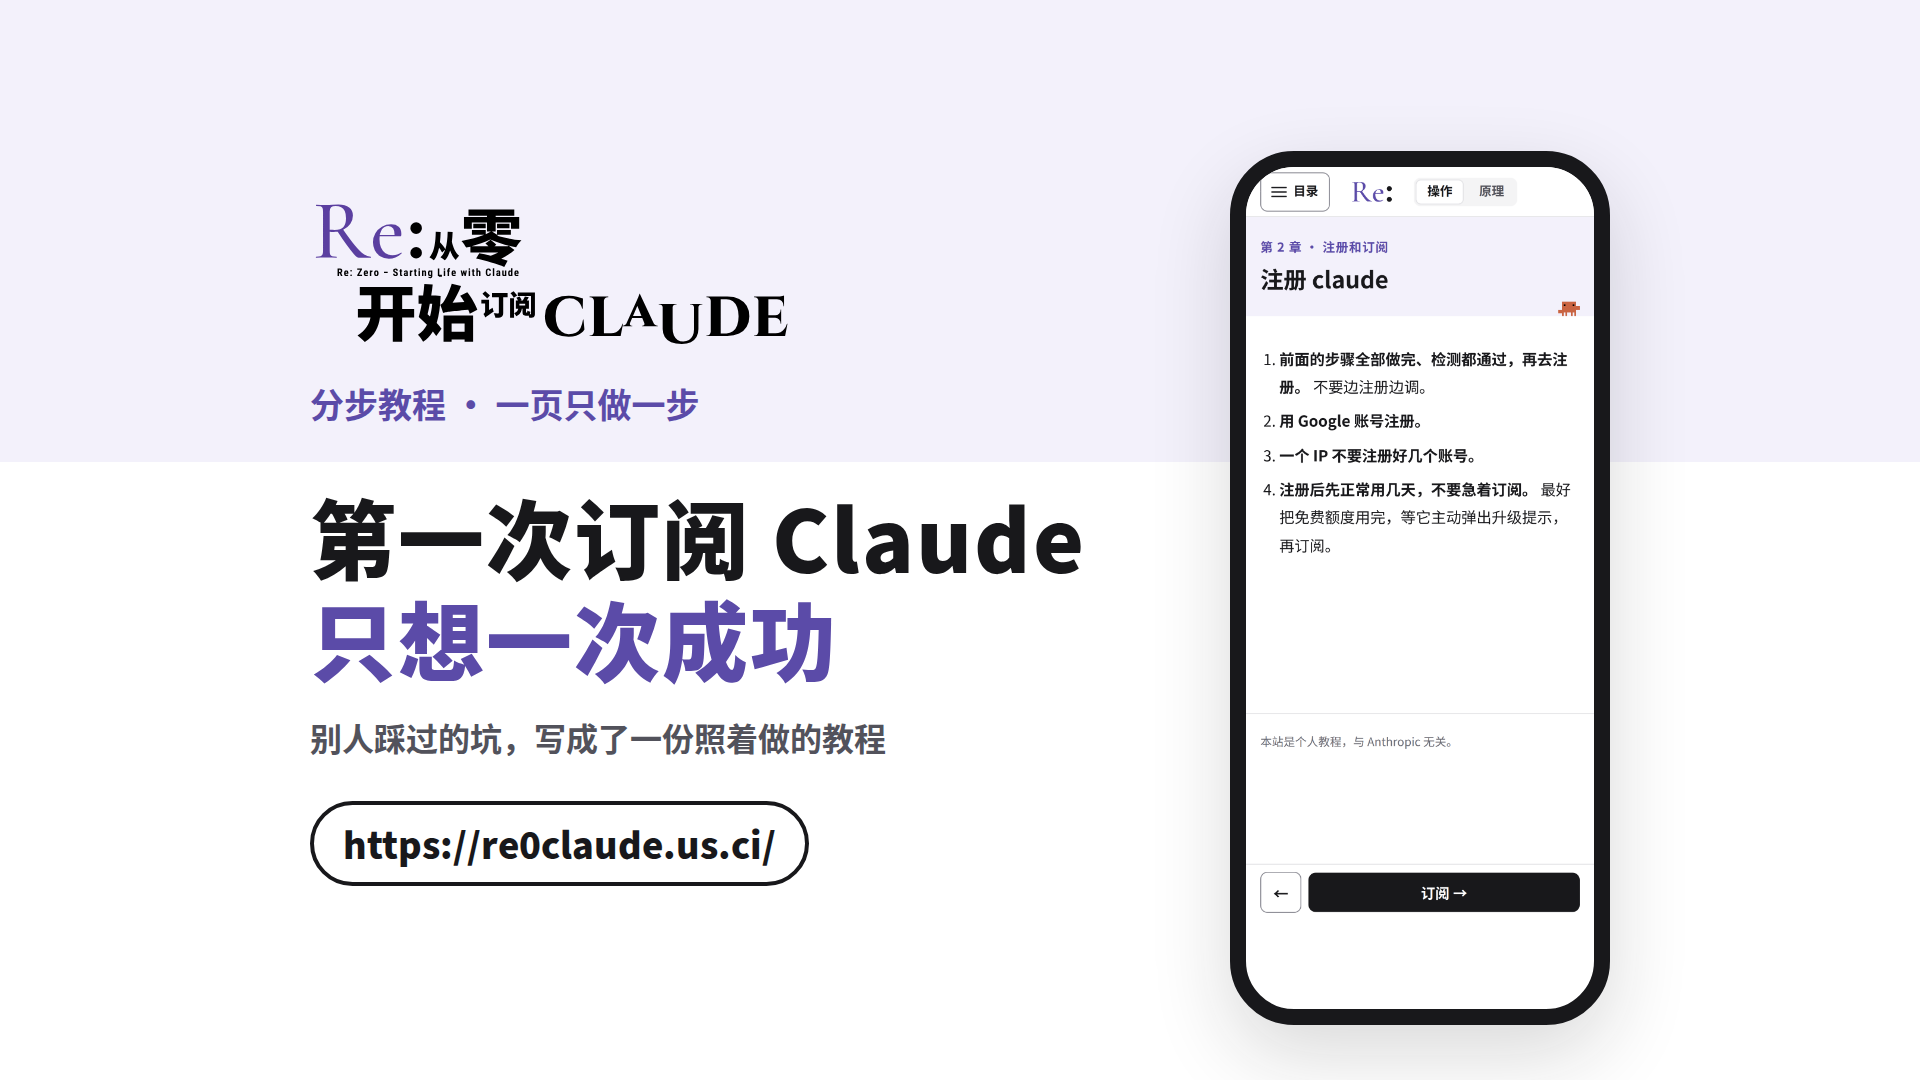
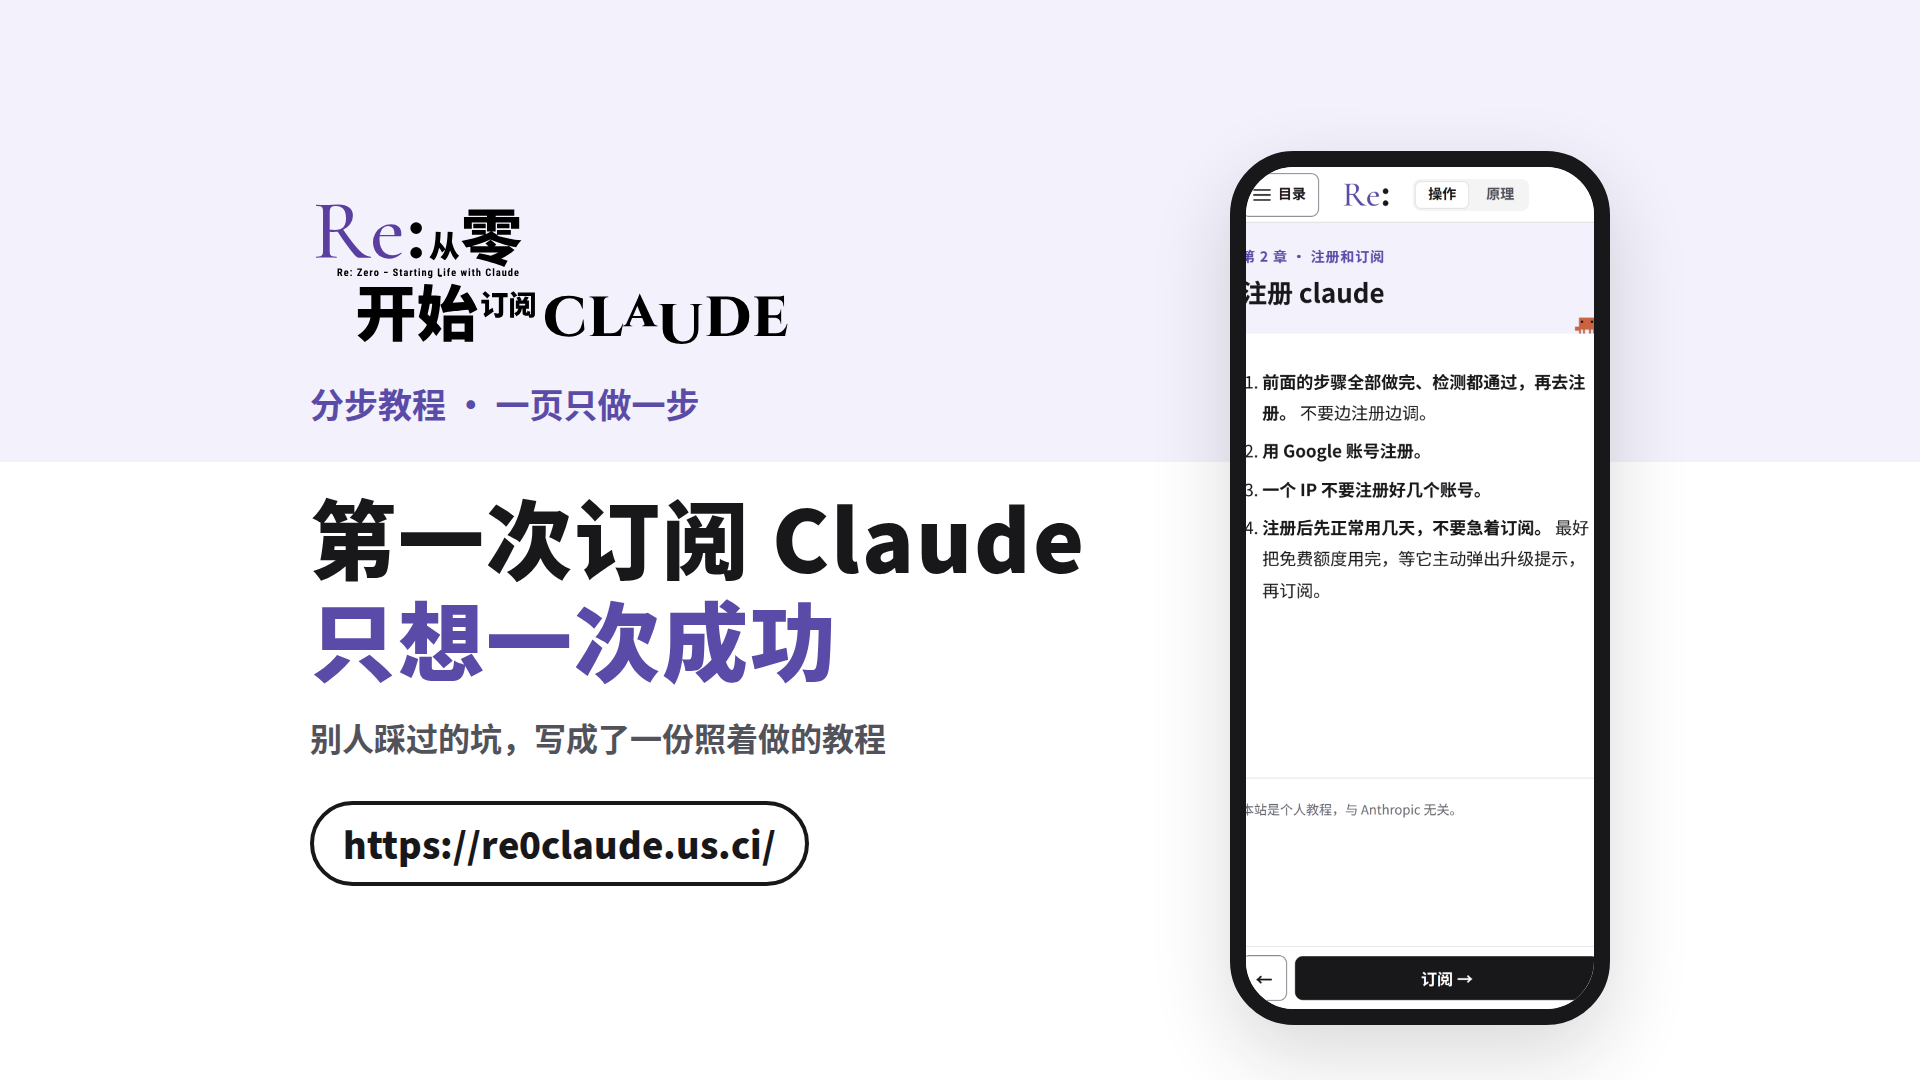
新增 B 站经历版封面，不带网址

diff --git a/promo/cover/cover.html b/promo/cover/cover.html
@@ -17,7 +17,7 @@
   .logo, .eyebrow, .title, .sub, .url { position: relative; }
   /* 横版右侧：网站的手机截图 */
   .phone { position: absolute; box-sizing: border-box; border: 16px solid var(--text); border-radius: 64px; background: #fff; overflow: hidden; box-shadow: 0 30px 80px rgba(24, 24, 27, .16); }
-  .phone img { display: block; width: 100%; }
+  .phone img { display: block; width: 100%; height: 100%; object-fit: cover; object-position: top; }
   .logo img { display: block; }
   .eyebrow { color: var(--accent); font-weight: 700; }
   .title { font-family: 'Heavy', sans-serif; line-height: 1.18; letter-spacing: 2px; }
@@ -44,6 +44,8 @@ const LAYOUTS = {
   'douyin-4x3': { w: 1440, h: 1080, pad: 90, logo: 520, eyebrow: 36, title: 92, sub: 34, url: 38, gap: [36, 40, 28, 44], phone: 400 },
   // B 站封面 16:9。B 站把同一张图裁成 16:9（个人空间）和 4:3（首页推荐），4:3 会切掉左右各 240px，
   // 所以内容都放在中间 1440 宽的安全区里（safe 是安全区到画布边的距离）
+  // 经历版封面：不带网址、不说教程（教程版在 B 站以“宣介违规 AI 服务及引流”被退回）
+  'bilibili-16x9-story': { w: 1920, h: 1080, safe: 240, pad: 70, logo: 480, eyebrow: 34, title: 86, sub: 32, url: 0, gap: [32, 36, 26, 40], phone: 380, story: true },
   'bilibili-16x9': { w: 1920, h: 1080, safe: 240, pad: 70, logo: 480, eyebrow: 34, title: 86, sub: 32, url: 36, gap: [32, 36, 26, 40], phone: 380 },
 };
 const v = new URLSearchParams(location.search).get('v') || 'douyin-3x4';
@@ -63,11 +65,11 @@ if (v.startsWith('avatar')) {
   const phoneLeft = L.w - edge - phoneW;
   stage.innerHTML = `<div class="col" style="left:${edge}px;right:${phoneW ? L.w - phoneLeft + 50 : edge}px">
     <div class="logo" style="margin-bottom:${L.gap[0]}px"><img src="${LOGO}" style="width:${L.logo}px;height:${L.logo * 250 / 784}px"></div>
-    <div class="eyebrow" style="font-size:${L.eyebrow}px;margin-bottom:${L.gap[1] * 1.6}px">分步教程 · 一页只做一步</div>
+    <div class="eyebrow" style="font-size:${L.eyebrow}px;margin-bottom:${L.gap[1] * 1.6}px">${L.story ? '一个学生的课余项目' : '分步教程 · 一页只做一步'}</div>
     <div class="title" style="font-size:${L.title}px;margin-bottom:${L.gap[2]}px">第一次订阅 Claude<br><span class="accent">只想一次成功</span></div>
-    <div class="sub" style="font-size:${L.sub}px;margin-bottom:${L.gap[3]}px">别人踩过的坑，写成了一份照着做的教程</div>
-    <div class="url" style="font-size:${L.url}px;padding:${L.url * 0.36}px ${L.url * 0.8}px">https://re0claude.us.ci/</div></div>`
-    + (phoneW ? `<div class="phone" style="left:${phoneLeft}px;top:${L.h * 0.14}px;width:${phoneW}px;height:${phoneW * 2.3}px"><img src="../video/shots/step-register-claude.png"></div>` : '');
+    <div class="sub" style="font-size:${L.sub}px;margin-bottom:${L.gap[3]}px">${L.story ? '好多朋友私信想让我远程帮装，可我是个学生（其实是懒）' : '别人踩过的坑，写成了一份照着做的教程'}</div>
+    ${L.story ? '' : `<div class="url" style="font-size:${L.url}px;padding:${L.url * 0.36}px ${L.url * 0.8}px">https://re0claude.us.ci/</div>`}</div>`
+    + (phoneW ? `<div class="phone" style="left:${phoneLeft}px;top:${L.h * 0.14}px;width:${phoneW}px;height:${phoneW * 2.3}px"><img src="${L.story ? '../video/feedback/purchase-success.jpg' : '../video/shots/step-register-claude.png'}"></div>` : '');
   // 浅紫色带：从顶上铺到眉题下方
   const eb = stage.querySelector('.eyebrow');
   stage.style.setProperty('--band', eb.offsetTop + eb.offsetHeight + L.gap[1] * 0.8 + 'px');

diff --git a/promo/cover/README.md b/promo/cover/README.md
@@ -7,6 +7,7 @@
 | `douyin-3x4.png` | 1080×1440 | 抖音竖版封面（3:4） |
 | `douyin-4x3.png` | 1440×1080 | 抖音横版封面（4:3） |
 | `bilibili-16x9.png` | 1920×1080 | B 站封面（16:9）。B 站会把同一张图裁成 16:9（个人空间）和 4:3（首页推荐），4:3 切掉左右各 240px，所以内容都在中间 1440 宽的安全区里，上传时保持“双比例同步改动”勾选即可 |
+| `bilibili-16x9-story.png` | 1920×1080 | B 站经历版封面：不带网址，右侧是订阅成功弹窗的截图，安全区同上 |
 | `avatar-light.png` | 640×640 | QQ 群头像，白底紫字（作者 2026-10-19 选定，在用） |
 | `avatar-dark.png` | 640×640 | QQ 群头像，紫底白字 |
 
